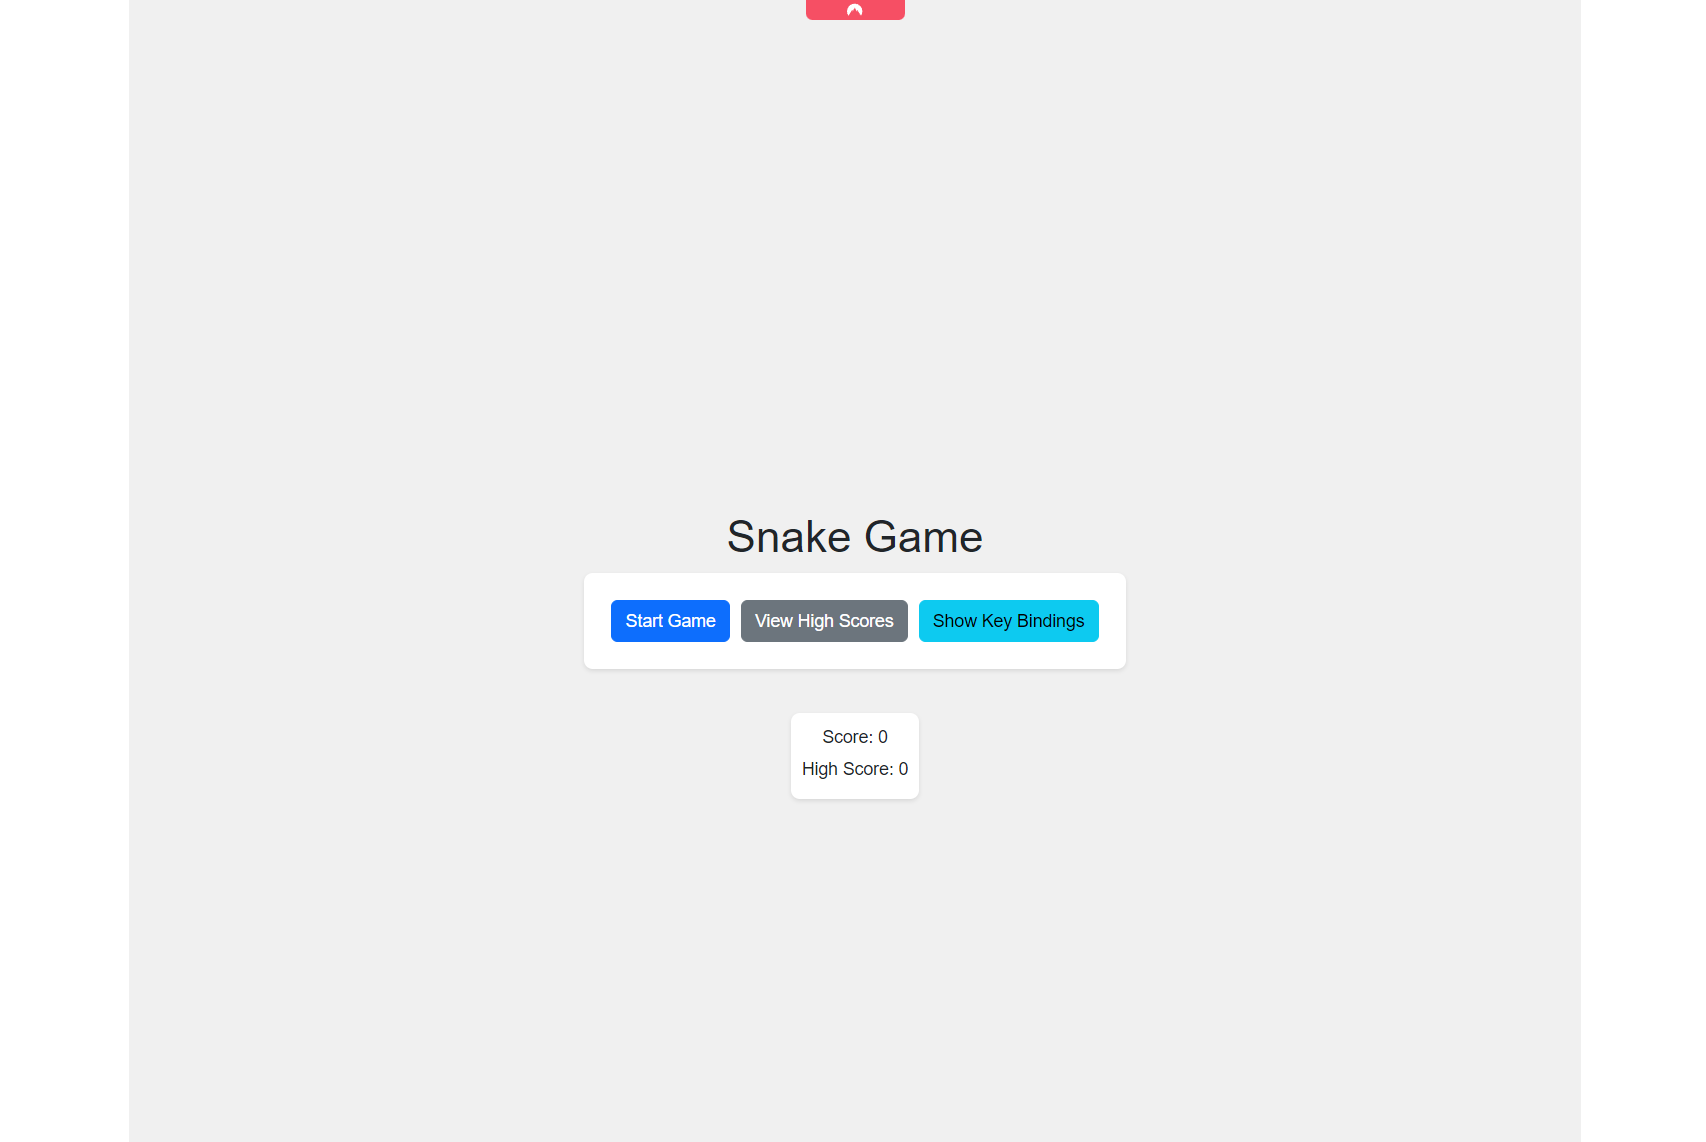
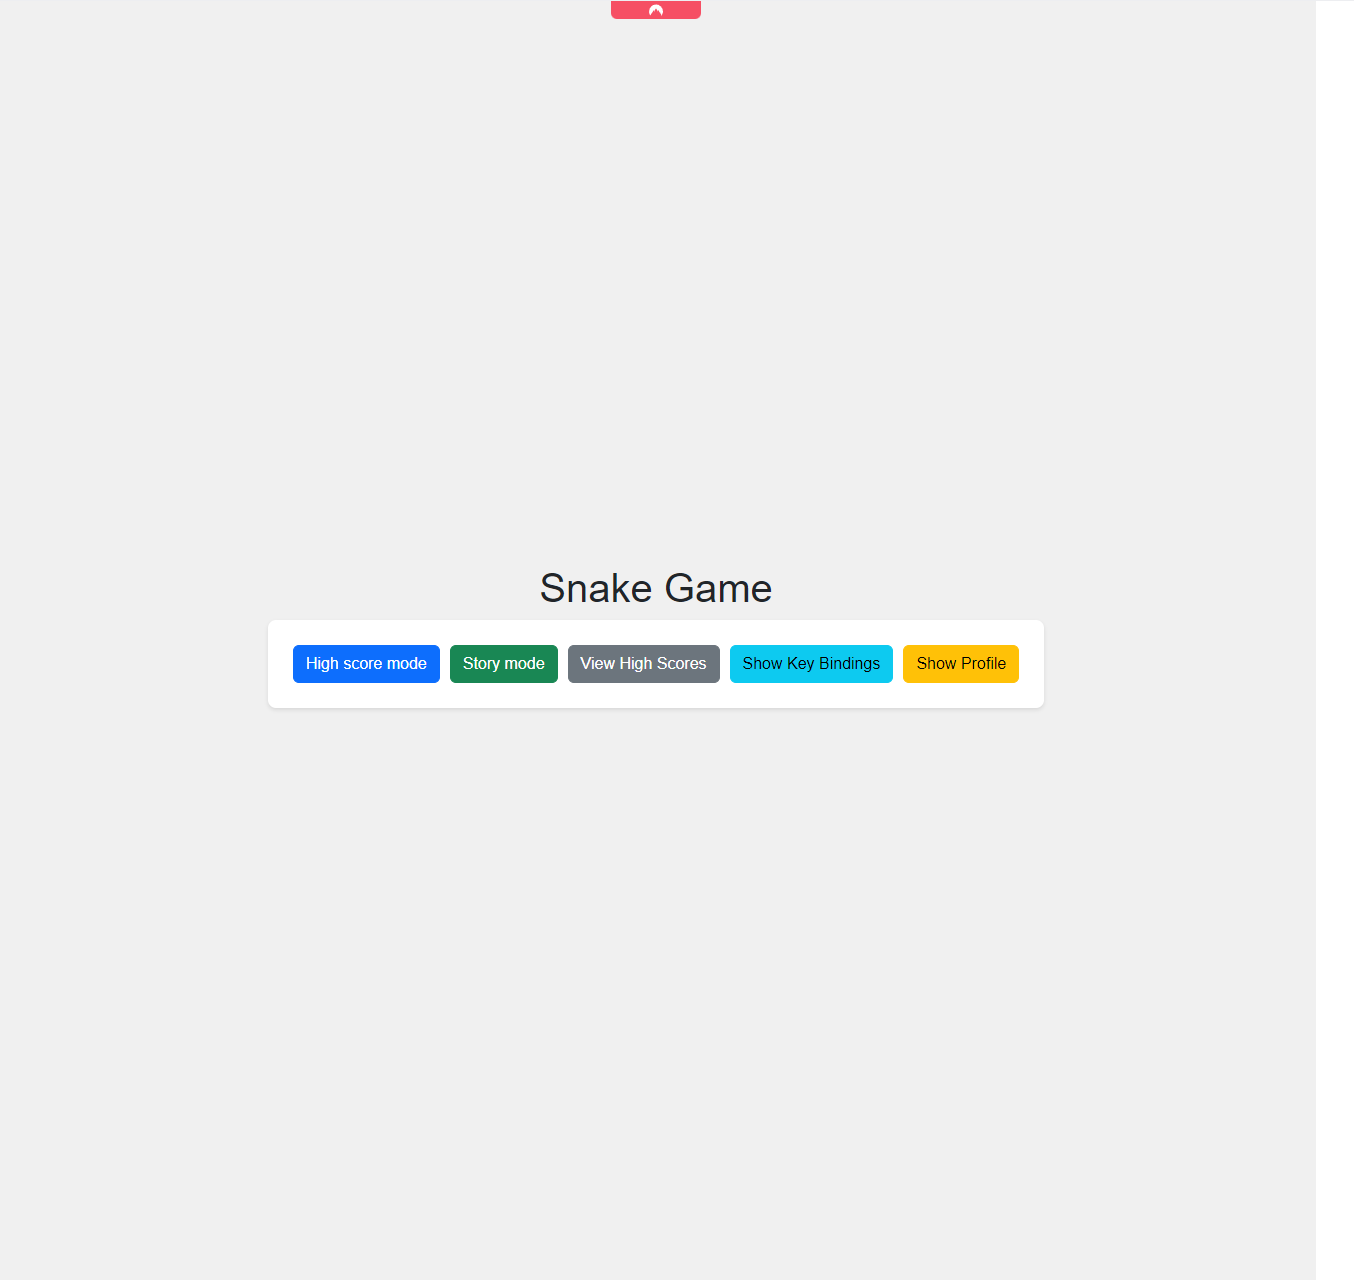
Add head of medusa svg and update readme

Changed region(s): [[0.2171, 0.4291, 0.7755, 0.5823], [0.4343, 0.0, 0.5273, 0.0306], [0.4653, 0.6436, 0.5273, 0.6743]]

diff --git a/README.md b/README.md
@@ -29,18 +29,31 @@ Each time a level or high score mode fails the game over screen is rendered:
 
 <img src="repo_assets/images/level_failed.png" alt="Game over, click to proceed" width="600">
 
+If the user beats level 2 in story mode then they unlock the Head of Medusa item.
 
+<img src="repo_assets/images/unlocking_head_of_medusa.png" alt="Level 2 is beaten. Head of Medusa is unlocked" width="600">
+
+ * Now that lives are increased to 2, upon collision to an obstacle the user does not immediately die.
+ * Instead the player lives are reduced by 1 and the snake immediately reverts direction to avoid further collision.
+
+### Profile tab
+
+Profile tab indicates the possible items that are available to the game.
+* Name of item
+* Information about the benefits provided when equipped
+* the objective to complete to unlock each item
+
+<img src="repo_assets/images/profile_equipped_items.png" alt="Profile items" width="600">
 
 ### Single player game
 - Story mode
   - Incrementing levels of difficulty
   - Level 1 has to capture 5 food items with no obstacles
-  - Level 2 has some obstacles
-  - Level 5 could get an item
+  - Level 2 has some obstacles and will unlock `Head of Medusa`
+  - Level 3 has obstacles surrounding the screen to prevent crossover
+  - Level 5 could be a boss and provide another item (Not implemented)
     - Move faster
     - Increase lives (pve instead of pvp?)
-    - Reduce deduction of points (pvp?)
-    - Could have items that have different effect on each mode ? 
 - High score mode
 
 ### Multiplayer (In Roadmap)
